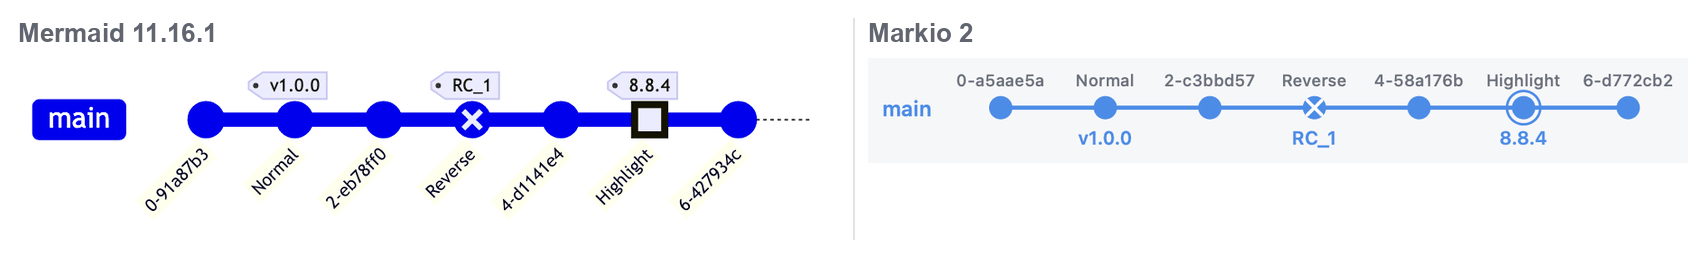
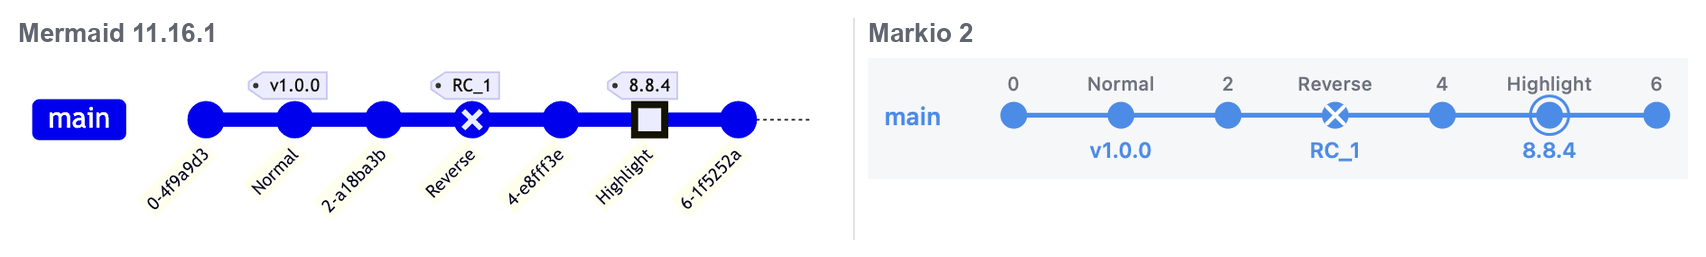
fix: stop writing a hash under a commit that has none
A commit nobody named went back to being written by its place in the graph.
Mermaid's own documentation calls the rest of that name "a unique & random ID" —
seven hex characters drawn afresh on every render — so it is not a hash of
anything and nobody can look it up. Working the same seven out from the source
instead only made the invention repeatable, and an identifier that refers to
nothing has no business standing under a commit.

The room the names get across the page stays: a name is wider than its dot,
which is why Mermaid turns its own on their side.

diff --git a/Sources/MarkioRender/MermaidPlots.swift b/Sources/MarkioRender/MermaidPlots.swift
@@ -337,12 +337,6 @@ struct GitGraph {
         var column = 0
         /// The last commit on each branch, which is what a merge line points at.
         var tips: [Int: Int] = [:]
-        /// The graph's own number, so that two graphs do not name their first
-        /// commits alike. See `named(_:_:)` for what it is for.
-        var seed: UInt64 = 0xcbf2_9ce4_8422_2325
-        for line in lines {
-            for byte in line.utf8 { seed = (seed ^ UInt64(byte)) &* 0x100_0000_01b3 }
-        }
         for line in lines {
             let word = String(line.prefix(while: { !$0.isWhitespace }))
             let rest = line.dropFirst(word.count).trimmingCharacters(in: .whitespaces)
@@ -351,8 +345,7 @@ struct GitGraph {
                 guard let options = options(rest) else { return nil }
                 graph.commits.append(
                     Commit(
-                        label: options.id.isEmpty ? named(column, seed) : options.id,
-                        tag: options.tag, branch: current, column: column,
+                        label: options.id, tag: options.tag, branch: current, column: column,
                         merges: nil, picks: nil, kind: options.kind))
                 tips[current] = graph.commits.count - 1
                 column += 1
@@ -388,8 +381,7 @@ struct GitGraph {
                 guard let options else { return nil }
                 graph.commits.append(
                     Commit(
-                        label: options.id.isEmpty ? named(column, seed) : options.id,
-                        tag: options.tag, branch: current, column: column,
+                        label: options.id, tag: options.tag, branch: current, column: column,
                         merges: tip, picks: nil, kind: options.kind))
                 tips[current] = graph.commits.count - 1
                 column += 1
@@ -399,26 +391,6 @@ struct GitGraph {
         }
         guard !graph.commits.isEmpty else { return nil }
         return graph
-    }
-
-    /// What a commit nobody named is called: its place in the graph, a dash,
-    /// and a short hash — `2-ad6c9c3`, which is what a git log shows.
-    ///
-    /// Mermaid puts seven random hex characters there, and a picture that
-    /// changes every time it is drawn cannot be compared with the one drawn
-    /// before it. So the seven are worked out from the graph and the commit's
-    /// place in it: a reader sees a hash, and two runs agree on which one.
-    private static func named(_ column: Int, _ seed: UInt64) -> String {
-        var hash = seed
-        for byte in "\(column)".utf8 { hash = (hash ^ UInt64(byte)) &* 0x100_0000_01b3 }
-        // Stirred once more, or the hashes of two commits standing next to each
-        // other come out alike but for a character, and a column of near-twins
-        // reads as a mistake rather than as seven hex digits.
-        hash ^= hash >> 33
-        hash = hash &* 0xff51_afd7_ed55_8ccd
-        hash ^= hash >> 33
-        let hex = String(hash & 0xfff_ffff, radix: 16)
-        return "\(column)-" + String(repeating: "0", count: max(0, 7 - hex.count)) + hex
     }
 
     /// `id: "Alpha" tag: "v1.0" type: HIGHLIGHT parent: "B"`

diff --git a/Sources/MarkioRender/MermaidLayout.swift b/Sources/MarkioRender/MermaidLayout.swift
@@ -3181,8 +3181,12 @@ enum MermaidLayout {
             // on each other.
             // Every commit is named under the graph, whether its author named
             // it or not: a row of unlabelled dots says nothing about which
-            // commit is which. The name a graph gives an unnamed commit is
-            // settled when it is read, so there is nothing left to decide here.
+            // commit is which. What stands there is the commit's place in the
+            // graph. Mermaid writes that place and then a random string — "a
+            // unique & random ID", as its own documentation puts it — and a
+            // string that is different every time the picture is drawn is not
+            // a hash of anything. Writing one here would show the reader an
+            // identifier that refers to nothing.
             let name = commit.label.isEmpty ? "\(order)" : commit.label
             for (words, above) in [(name, true), (commit.tag, false)] where !words.isEmpty {
                 let line = text(

diff --git a/documents/design.md b/documents/design.md
@@ -606,15 +606,17 @@ its own. `gitGraph TB:` turns the lanes down the page rather than across it:
 the same graph, with the two axes swapped and the branch names moved above their
 lanes. A `cherry-pick` is drawn as a dotted line back to the commit it copied,
 because a copy is the same work said twice rather than one line running on.
-A commit nobody named is written the way Mermaid writes it: its place in the
-graph, a dash, and seven hex characters — `2-ad6c9c3`, which is what a git log
-shows. Mermaid draws seven random ones, and a picture that changes every time it
-is drawn cannot be compared with the one drawn before it, so the seven are worked
-out from the graph and the commit's place in it. A reader sees a hash and two
-runs agree on which one. The names are what set how far apart the commits stand
-across the page: a hash is far wider than the dot it belongs to, and Mermaid
-turns its names on their side to fit them where this one gives them the room.
-What a commit is decides how its
+A commit nobody named is written by its place in the graph — the first is `0`,
+the next `1` — because that is the half of Mermaid's own name for it that means
+anything. The other half is, in the words of Mermaid's own documentation, "a
+unique & random ID": seven hex characters drawn afresh every time the picture is
+drawn, so they are not a hash of anything and no reader can look them up. Writing
+a string of that shape here would put an identifier in front of the reader that
+refers to nothing, and working one out from the source instead would only make
+the invention repeatable. The names set how far apart the commits stand across
+the page: a name is far wider than the dot it belongs to, and Mermaid turns its
+names on their side to fit them where this one gives them the room. What a commit
+is decides how its
 dot is drawn: a merge is hollow because it is the one commit belonging to two
 lines at once, a `REVERSE` is crossed out, a `HIGHLIGHT` is ringed. A `type:`
 nobody here draws is refused rather than read as an ordinary commit — that is
